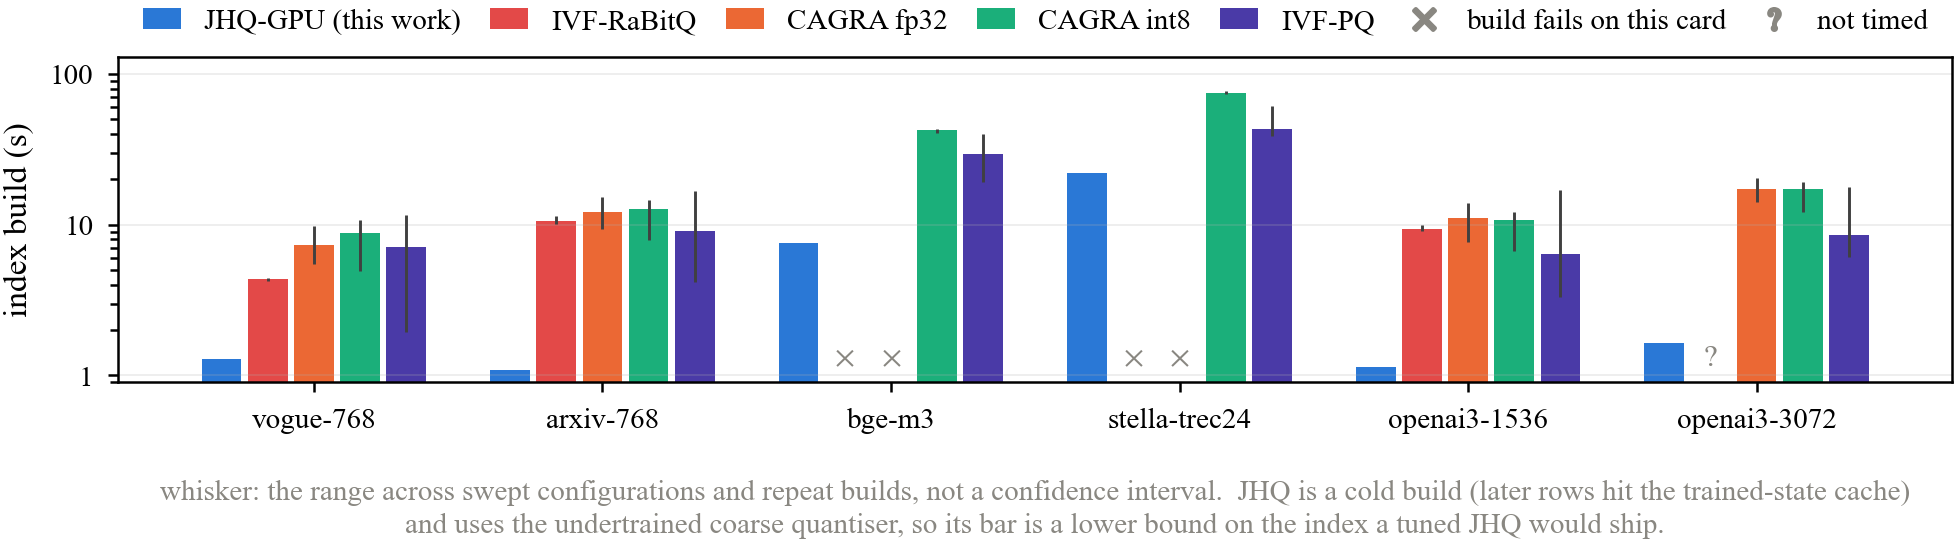
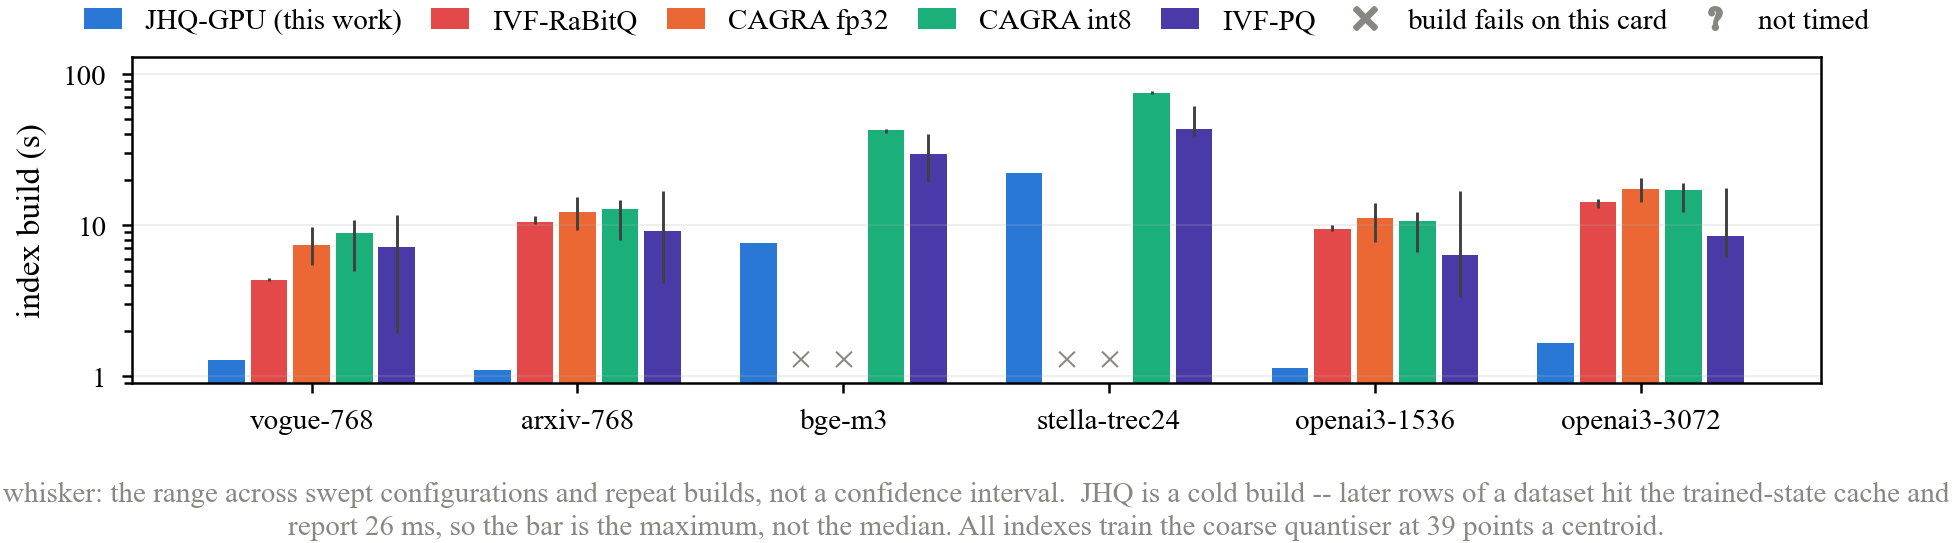
Item 1: openai3-3072's RaBitQ build time existed, it just never left the box
/root/_rqb.sh timed it all along -- 13.0 to 14.6 s at nlist=4096, bits=8, the
paper's configuration. Collected as data/rabitq_o3072_build.log, so fig_build
has no unmeasured cell left. The '?' mark stays in the legend: a gap in our
measurements and a limitation of a baseline are different claims.

Also removes a false statement this figure was carrying. Its docstring and
caption said JHQ used an undertrained coarse quantiser and that the bar was
therefore a lower bound. _pa.sh passes JHQ_N_TRAIN = 39 x nlist on every
dataset, so the build time already includes the quantiser the frontier was
measured on.

diff --git a/paper_adc2026/figures/fig_build.py b/paper_adc2026/figures/fig_build.py
@@ -36,12 +36,14 @@ at nprobe=32 -- the second is a cache hit on the first. Taking a median would
 report the cache. The bar is the maximum, which is the build that actually
 happened.
 
-**JHQ's coarse quantiser was undertrained** -- about 6 points per centroid
-where the usual guidance is ~39. Training it properly costs a few seconds more
-here and is worth up to +96% QPS, so this figure and the frontier are *both*
-measured on the cheap-to-build, slow-to-search configuration. The bar is
-therefore a lower bound on the build time of the index a tuned JHQ would ship,
-and the paper must say so rather than bank a fast build it would not keep.
+**The coarse quantiser is trained at 39 points per centroid, and the build
+time includes that.** `/root/_pa.sh` passes `JHQ_N_TRAIN = 39 x nlist` on every
+dataset -- 1,277,952 for bge-m3 and stella at nlist=32768, 159,744 for vogue
+and openai3-3072 at 4096, 319,488 for arxiv and openai3-1536 at 8192. So this
+is not a cheap build bought by under-training: an earlier draft of this
+docstring said it was, which was wrong, and the mistake matters in the
+generous direction -- the bar already carries the cost of the quantiser the
+frontier was measured on.
 
 ## A missing bar means one of two different things, and they are drawn apart
 
@@ -51,10 +53,13 @@ rc=134 even after `train/list` is cut to 32 (`rabitq_bigsets.log`). At 10.1M
 and 17.8M vectors of 1024 dimensions the allocation does not fit this card,
 and it is the same reason both are absent from fig_frontier.
 
-**The build was never timed.** IVF-RaBitQ on openai3-3072 has search results
-throughout this paper but no `build_ms` in any frozen log. That is a gap in
-our measurements, not a property of the system, and drawing it the same way as
-a failure would be a false claim about a baseline. It gets its own mark.
+**The build was never timed.** No cell is in this state any more. IVF-RaBitQ
+on openai3-3072 was in it until the log of `/root/_rqb.sh` was collected into
+`data/rabitq_o3072_build.log` -- the number had been measured all along and
+had simply never left the box. The mark stays in the legend because the
+distinction is worth keeping visible: a gap in our measurements and a
+limitation of a baseline are different claims, and drawing them the same way
+would assert the second from evidence for the first.
 """
 import sys, os, re, csv, glob, collections
 import statistics as st
@@ -105,6 +110,15 @@ for ln in open(datafile("paper_rabitq.log")):
 # was simply not timed, and is marked differently.
 FAILS = {("cuVS-CAGRA", "bge-m3"), ("cuVS-CAGRA", "stella"),        # fronts.json oom
          ("IVF-RaBitQ", "bge-m3"), ("IVF-RaBitQ", "stella")}        # rc=134
+# openai3-3072's RaBitQ build was timed by /root/_rqb.sh, whose log is
+# dedicated to that dataset and so does not repeat the name on each line.
+# It was simply never collected into data/ until now.
+for ln in open(datafile("rabitq_o3072_build.log")):
+    m = re.search(r"nlist=\d+\s+bits=8\s+np=\d+\s+mode=0\s+recall=[\d.]+\s+"
+                  r"qps=\d+\s+build_ms=([\d.]+)", ln)
+    if m:
+        b[("IVF-RaBitQ", "openai3-3072")].append(float(m.group(1)) / 1000)
+
 METHODS = [("JHQ-GPU", "jhq"), ("IVF-RaBitQ", "rabitq"),
            ("cuVS-CAGRA", "cagra"), ("cuVS-CAGRA-int8", "cagra8"),
            ("cuVS-IVFPQ", "ivfpq")]
@@ -153,10 +167,11 @@ ll.append("not timed")
 ax.legend(hh, ll, loc="lower center", bbox_to_anchor=(0.5, 1.005), ncol=7,
           fontsize=7, columnspacing=1.0, handlelength=1.3)
 ax.text(0.5, -0.30, "whisker: the range across swept configurations and repeat "
-        "builds, not a confidence interval.  JHQ is a cold build (later rows "
-        "hit the trained-state cache)\nand uses the undertrained coarse "
-        "quantiser, so its bar is a lower bound on the index a tuned JHQ "
-        "would ship.", transform=ax.transAxes, ha="center", va="top",
+        "builds, not a confidence interval.  JHQ is a cold build -- later rows "
+        "of a dataset hit the trained-state cache and\nreport 26 ms, so the "
+        "bar is the maximum, not the median. All indexes train the coarse "
+        "quantiser at 39 points a centroid.",
+        transform=ax.transAxes, ha="center", va="top",
         fontsize=7, color="#898781", linespacing=1.35)
 
 fig.tight_layout(pad=0.3, rect=(0, 0.16, 1, 1))
